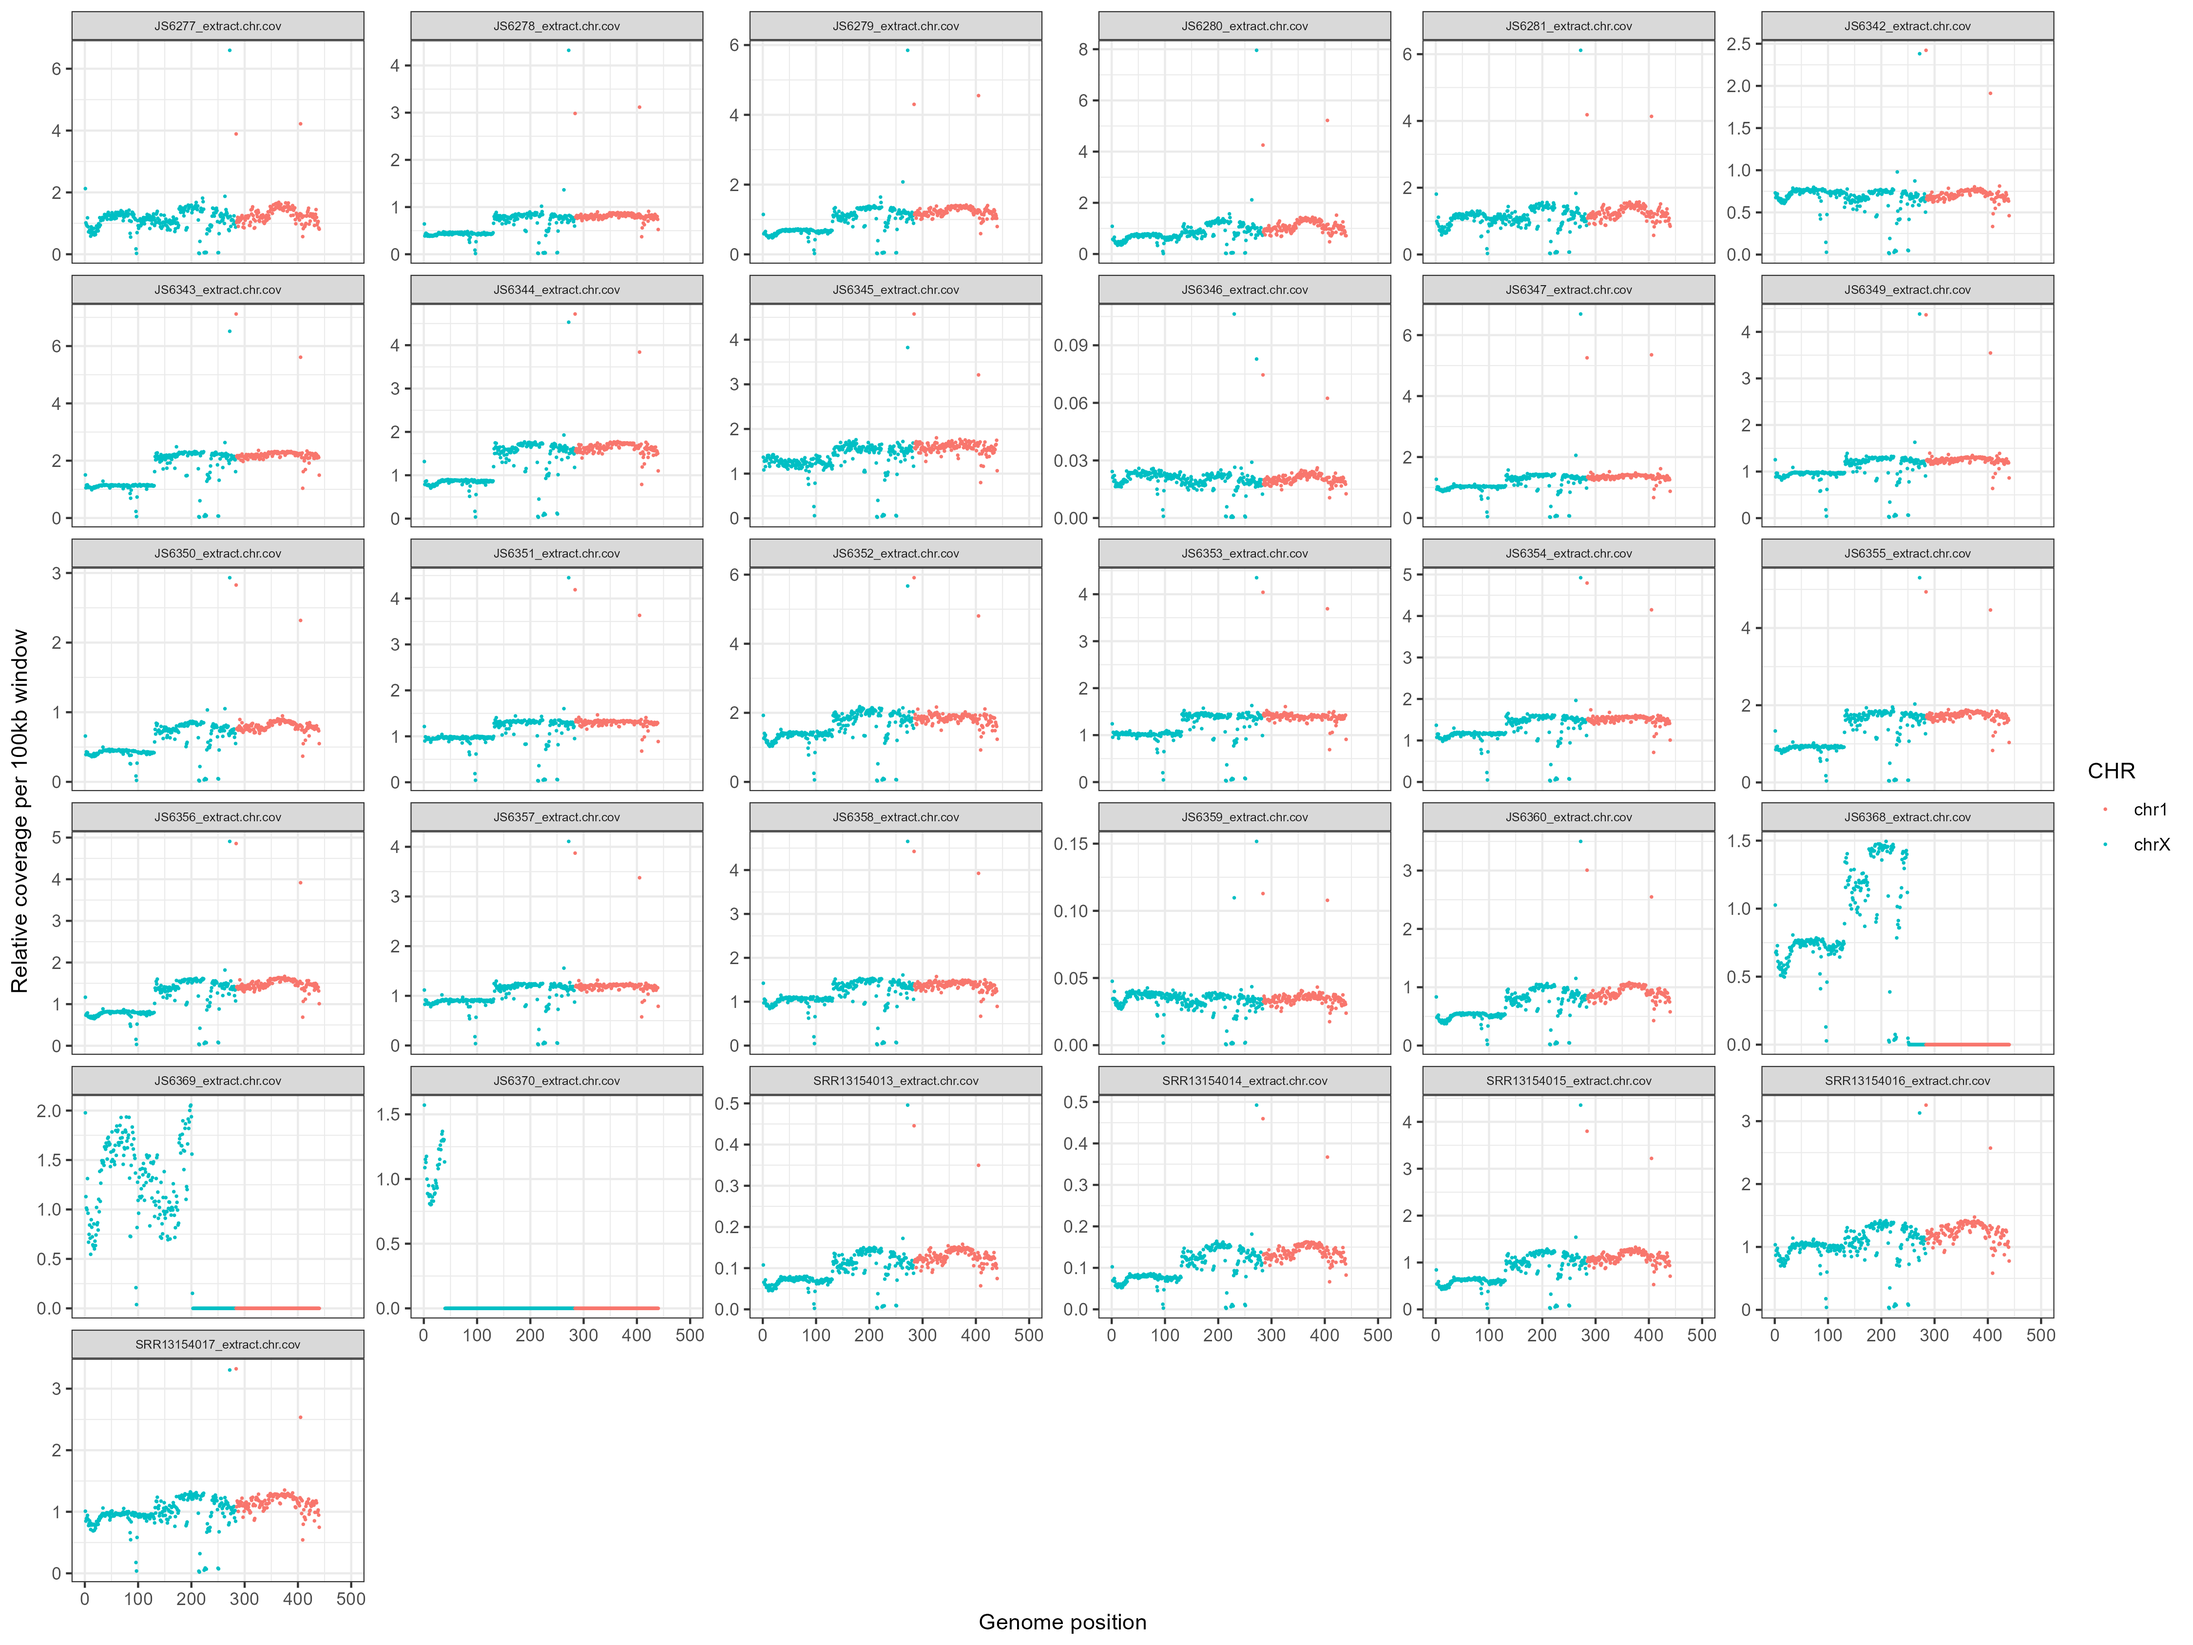
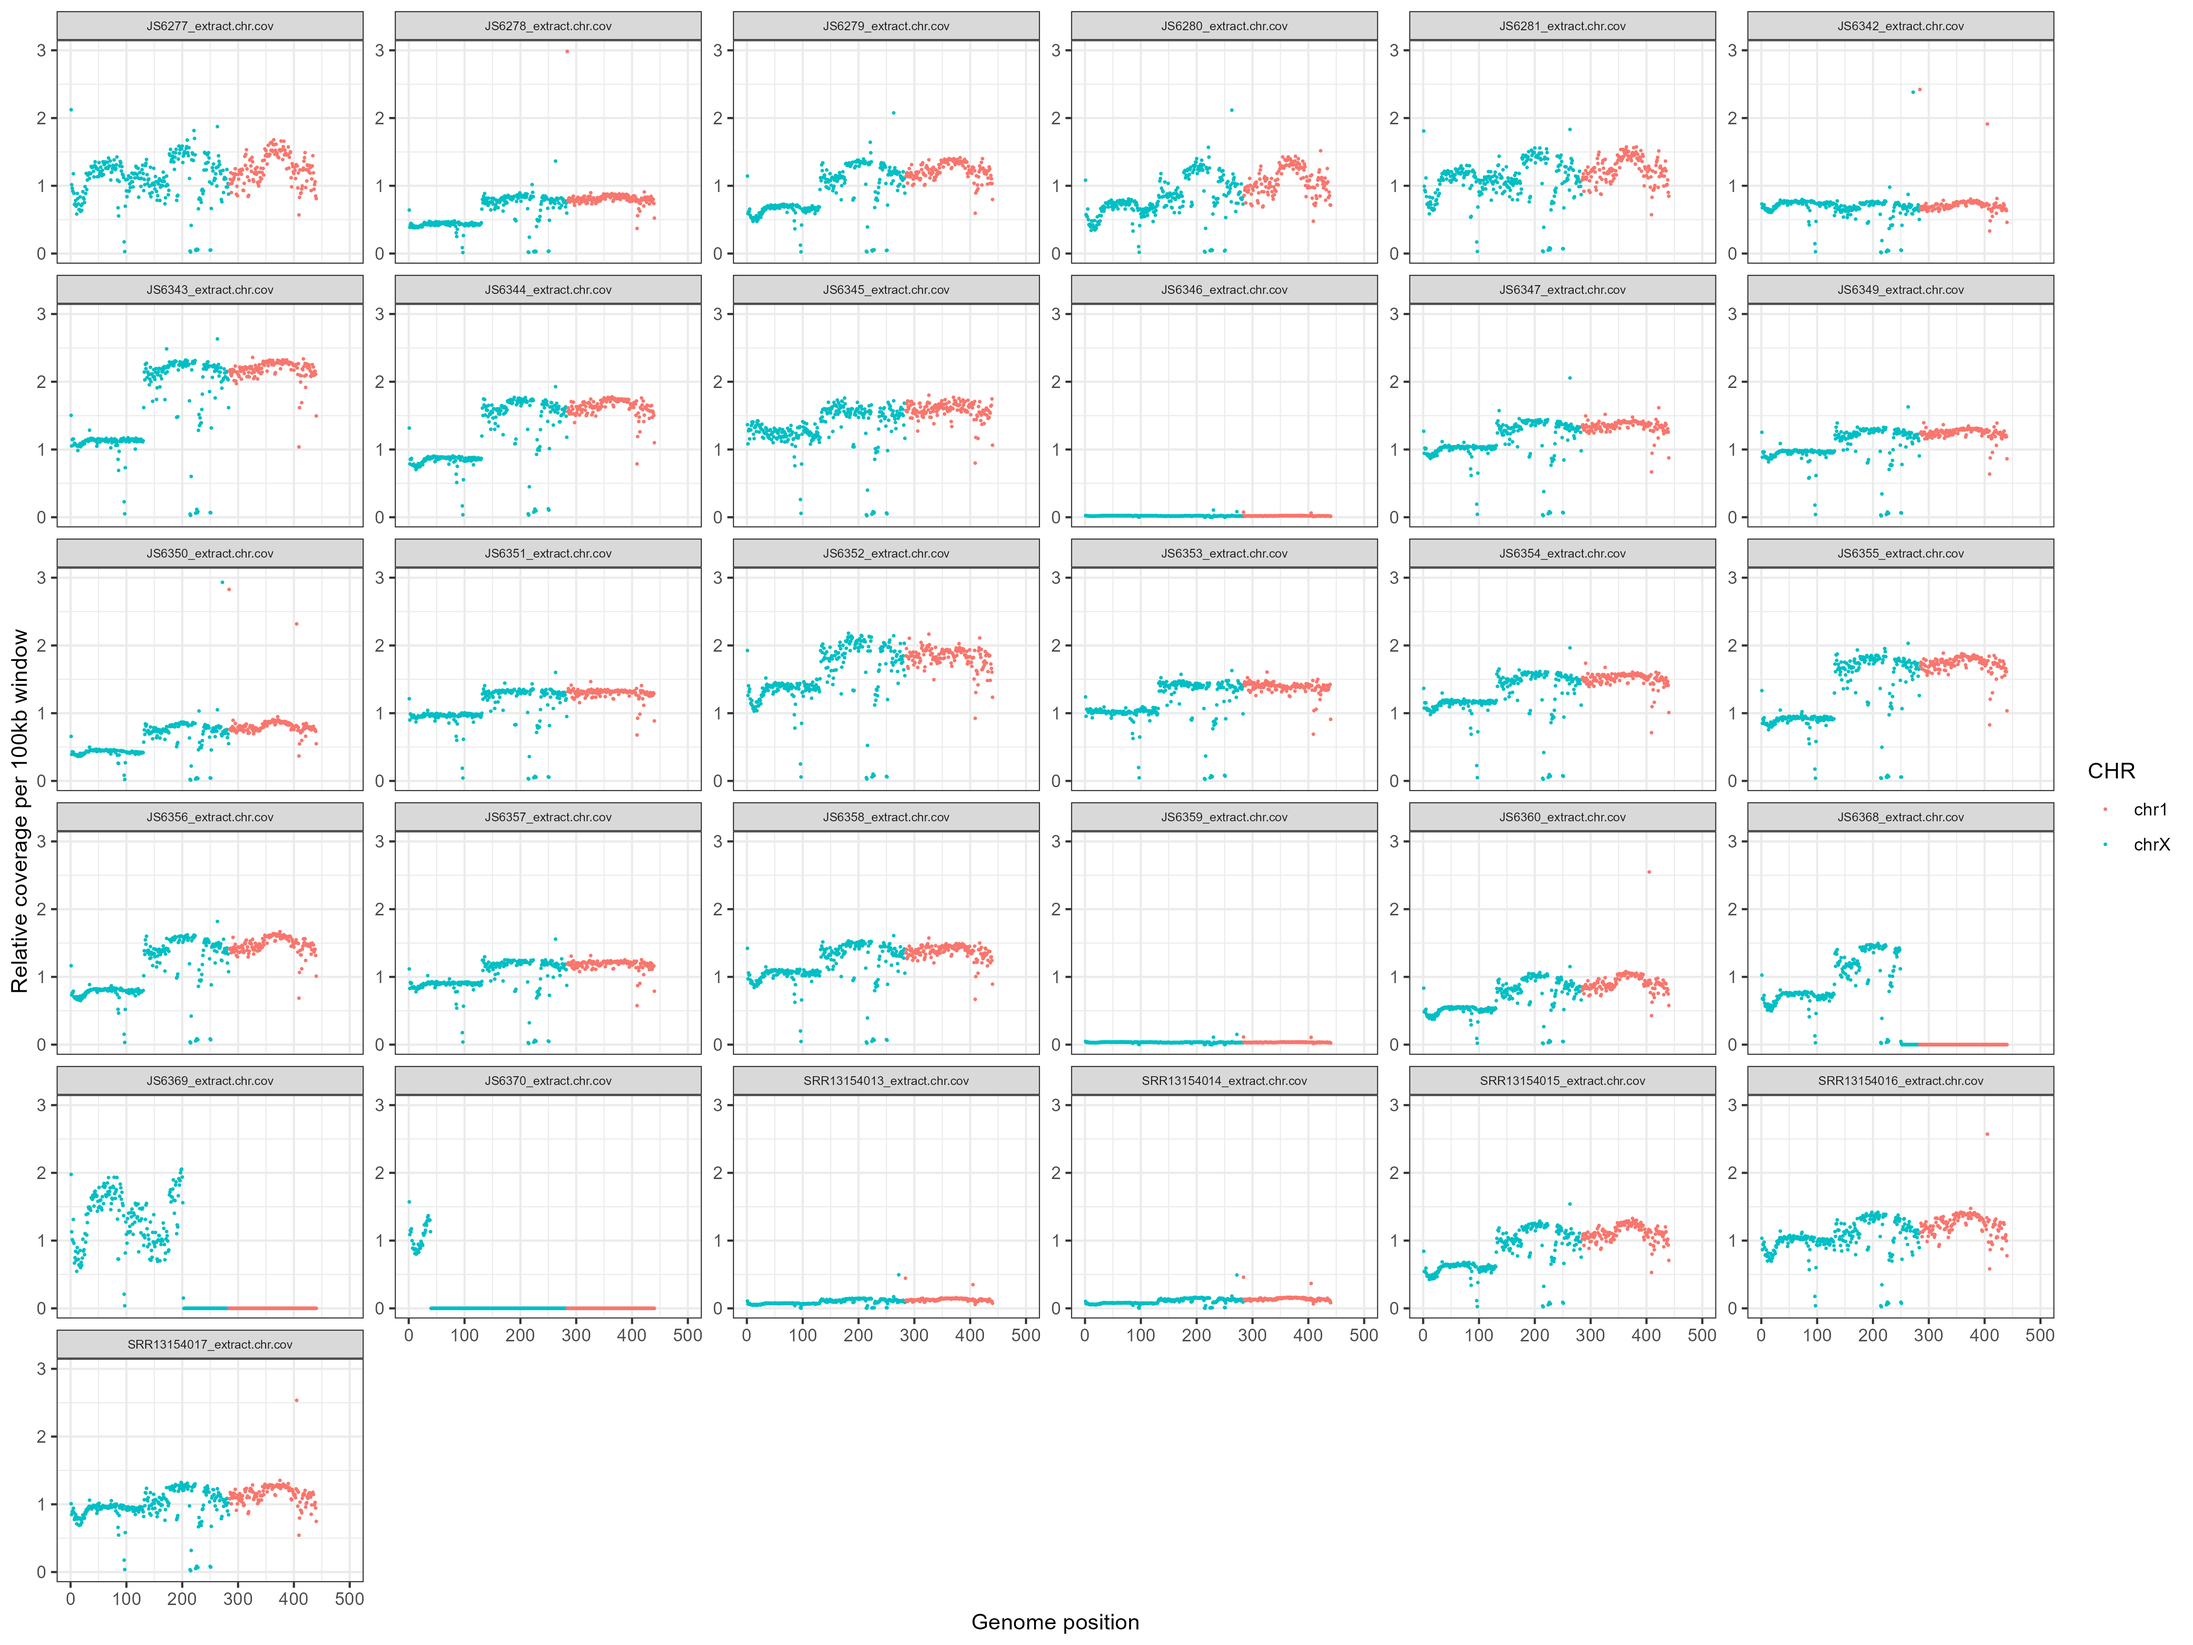
updated workbook

diff --git a/02_code/hw_wgs_workbook.md b/02_code/hw_wgs_workbook.md
@@ -1207,8 +1207,8 @@ The code below uses bcftools for SNP calling. I could also use GATK -> variants 
 # PBS directives 
 #PBS -P RDS-FSC-Heartworm_MLR-RW
 #PBS -N snps_raw
-#PBS -l select=1:ncpus=10:mem=50GB
-#PBS -l walltime=72:00:00
+#PBS -l select=14:ncpus=4:mem=20GB
+#PBS -l walltime=350:00:00
 #PBS -m abe
 #PBS -q defaultQ
 #PBS -o snps_raw.txt
@@ -1228,7 +1228,7 @@ module load tabix/0.2.6
 ls -1 *_extract.bam > bam.fofn
 
 # call SNPs in the bam files using bam.fofn to generate a multi-sample bcf
-bcftools mpileup --threads 10 -Ou --annotate FORMAT/DP --fasta-ref /project/RDS-FSC-Heartworm_MLR-RW/HW_WGS_ALL/data/analysis/mapping/dimmitis_WSI_2.2.fa --bam-list bam.fofn | bcftools call --threads 10 -v -c --ploidy 2 -Ob --skip-variants indels > all_samples.bcf
+bcftools mpileup --threads 24 -Ou --annotate FORMAT/DP --fasta-ref /project/RDS-FSC-Heartworm_MLR-RW/HW_WGS_ALL/data/analysis/mapping/dimmitis_WSI_2.2.fa --bam-list bam.fofn | bcftools call --threads 24 -v -c -Ob --skip-variants indels > all_samples.bcf
 # Can just use DI reference genome now
 # can i multithread it? It can really help.
 
@@ -1574,7 +1574,7 @@ Extract the 42 (or more) SNPs in all samples and compare. Can use grep? Artemis?
 
 
 
-## Coverage
+## Coverage on extracted D. immitis reads
 
 Adopted the code from Javier's paper.
 
@@ -1701,6 +1701,8 @@ library(ggpubr)
 library(ggsci)
 library(stringr)
 
+setwd("C:/Users/rpow2134/OneDrive - The University of Sydney (Staff)/Documents/HW_WGS/R_analysis")
+
 #first, I have to read the nuclear cov stat and estimate the mean and sd
 #then, to add it to 'mito_wolb_cov.stats
 
@@ -1755,7 +1757,7 @@ colnames(data) <- c("ID", "NUM", "CHR", "START", "END",
 
 # remove scaffolds, mitochondrial and wolbachia genome
 data_nuc <- dplyr::filter(data, !grepl("scaffold|MtDNA|Wb|JAAUVH|CM025",CHR))
-# Also remove random things called JAAUVH010000344 and CM025130.1 etc. - don't know what they are. Could they be from the dog genome? Doing this made the plot below work!! But check what these things could be and whether it's ok for them to be there in the first place.
+# Also remove chromosomes called JAAUVH010000344 and CM025130.1 etc. - they are part of the dog genome because they are still in the header of the extracted bam files (even though the dog reads aren't there anymore). Removing these dog chromosomes made the plot below work!! Removing them here is totally fine.
 
 # data$SEX <- str_detect(data$SCAF,"Trichuris_trichiura_1_")
 
@@ -1770,6 +1772,20 @@ ggplot(data_nuc, aes(NUM, PROPORTION_COVERAGE/(median(PROPORTION_COVERAGE)), gro
 ggsave("ALL_genomewide_coverage_allsamples.png", height=11.25, width=15)
 ```
 ![](output/images/ALL_genomewide_coverage_allsamples.png)
+
+```R
+# Let's set some x and y limits to see the data a bit better.
+ggplot(data_nuc, aes(NUM, PROPORTION_COVERAGE/(median(PROPORTION_COVERAGE)), group = ID, col = CHR)) +
+  geom_point(size=0.5) +
+  labs( x = "Genome position" , y = "Relative coverage per 100kb window") +
+  theme_bw() + theme(strip.text.x = element_text(size = 6)) +
+  facet_wrap(~ID, scales = "free_y") +
+  xlim(0,1000) +
+  ylim(0,3)
+
+ggsave("ALL_genomewide_coverage_allsamples_v2.png", height=11.25, width=15)
+```
+![](output/images/ALL_genomewide_coverage_allsamples_v2.png)
 
 ```R
 # Let's see only the chrX to explore the sex of the sample
@@ -1787,7 +1803,7 @@ ggsave("chrXtochr1_genomewide_coverage_allsamples.png", height=11.25, width=15)
 ![](output/images/chrXtochr1_genomewide_coverage_allsamples.png)
 
 ```R
-# Can I restrict the x axis to see the plotting better? There seems to be some outliers to the far right.
+# Restrict the x and y axes to see the plotting better. There seems to be some outliers to the far right - it's ok to remove those since we just want to focus on sex.
 data_nuc %>%
   filter(., grepl("chrX|chr1",CHR)) %>%
   ggplot(aes(NUM, PROPORTION_COVERAGE/(median(PROPORTION_COVERAGE)), group = ID, col = CHR)) +
@@ -1795,7 +1811,69 @@ data_nuc %>%
   labs( x = "Genome position" , y = "Relative coverage per 100kb window") +
   theme_bw() + theme(strip.text.x = element_text(size = 6)) +
   facet_wrap(~ID, scales = "free_y") +
-  xlim(0,500)
+  xlim(0,500) +
+  ylim(0,3)
 ggsave("chrXtochr1_genomewide_coverage_allsamples_v2.png", height=11.25, width=15)
+ # There are some samples which look a bit strange. The relative coverage per 100kb window should be ~1. Check if these samples had poor data from the beginning, which could explain the poor coverage.
 ```
 ![](output/images/chrXtochr1_genomewide_coverage_allsamples_v2.png)
+
+Now analyse the coverage on the original sorted bam files to get some coverage statistics on D. immitis, Wolbachia and dog.
+
+
+
+
+
+## Coverage on original sorted bam files (D. immitis, Wolbachia and dog)
+
+```bash
+#!/bin/bash
+
+# PBS directives 
+#PBS -P RDS-FSC-Heartworm_MLR-RW
+#PBS -N coverage_di_wol_dog
+#PBS -l select=3:ncpus=1:mem=50GB
+#PBS -l walltime=24:00:00
+#PBS -m abe
+#PBS -q defaultQ
+#PBS -o coverage_di_wol_dog.txt
+#PBS -M rosemonde.power@sydney.edu.au
+
+# qsub ../coverage_di_wol_dog.pbs
+
+WORKING_DIR=/scratch/RDS-FSC-Heartworm_MLR-RW/mapping/coverage_di_wol_dog
+cd ${WORKING_DIR}
+
+WINDOW='100000'
+
+module load bamtools/2.5.1
+module load bedtools/2.29.2
+module load samtools/1.9
+
+for i in /scratch/RDS-FSC-Heartworm_MLR-RW/mapping/*sorted.bam; do
+
+bamtools header -in ${i} | grep "^@SQ" | awk -F'[:\t]' '{printf $3"\t"1"\t"$5"\n"}' OFS="\t" > ${i%.bam}.chr.bed
+bamtools header -in ${i} | grep "^@SQ" | awk -F'[:\t]' '{printf $3"\t"$5"\n"}' OFS="\t" > ${i%.bam}.chr.genome
+
+bedtools makewindows -g ${i%.bam}.chr.genome -w ${WINDOW} > ${i%.bam}.${WINDOW}_window.bed
+
+samtools bedcov -Q 20 ${i%.bam}.chr.bed ${i} | awk -F'\t' '{printf $1"\t"$2"\t"$3"\t"$4"\t"$4/($3-$2)"\n"}' OFS="\t" > ${i%.bam}.chr.cov
+samtools bedcov -Q 20 ${i%.bam}.${WINDOW}_window.bed ${i} | awk -F'\t' '{printf $1"\t"$2"\t"$3"\t"$4"\t"$4/($3-$2)"\n"}' OFS="\t" > ${i%.bam}.${WINDOW}_window.cov
+
+rm ${i%.bam}.chr.bed ${i%.bam}.${WINDOW}_window.bed ${i%.bam}.chr.genome;
+
+done
+
+for i in *.chr.cov; do 
+
+printf "${i}\n" > ${i}.tmp | awk '{print $5}' OFS="\t" ${i} >> ${i}.tmp;
+
+done
+
+paste *.tmp > coverage_stats.summary
+rm *.tmp
+
+mkdir COV_STATS
+mv *.chr.cov *_window.cov *.cov coverage_stats.summary /COV_STATS/
+cd COV_STATS
+```
